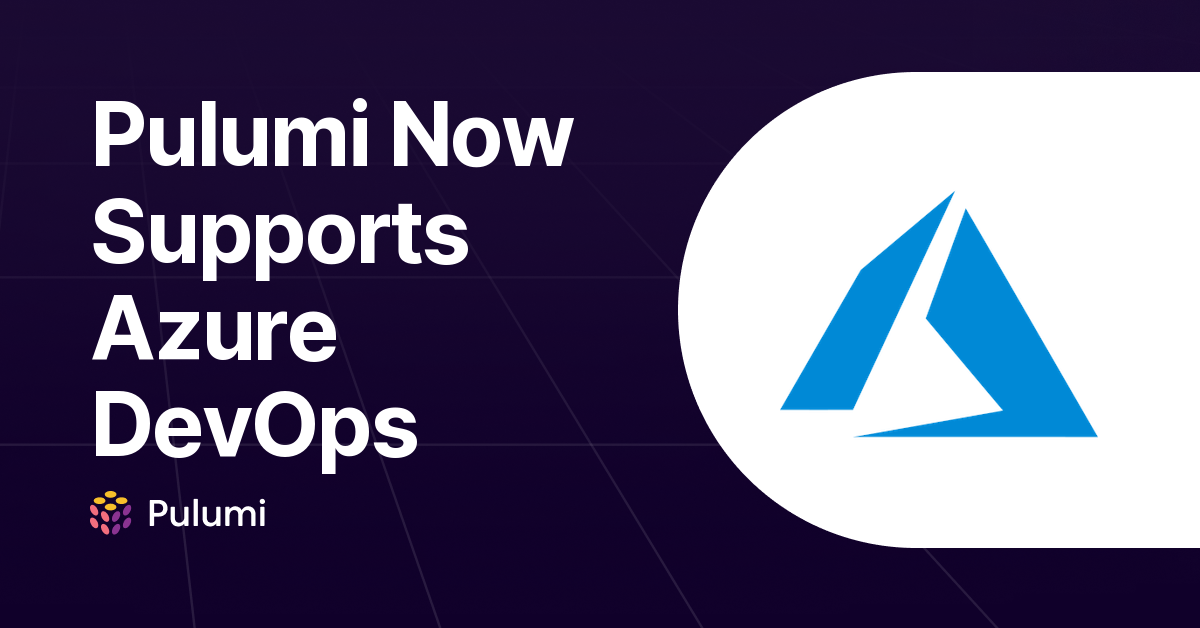
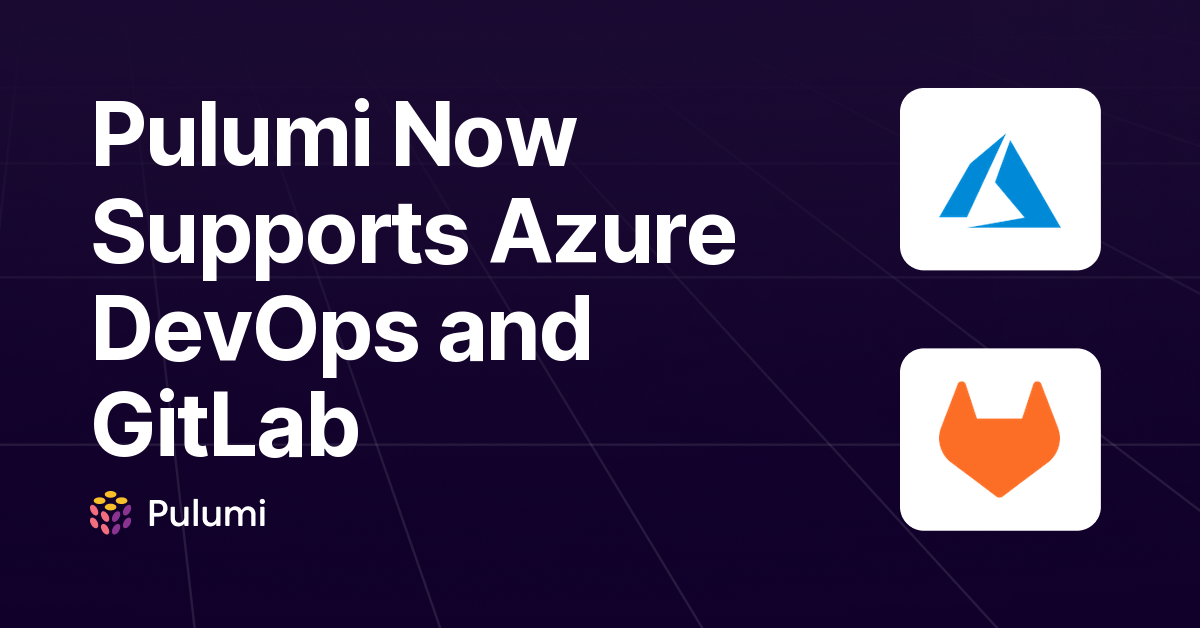
meta image

diff --git a/content/blog/pulumi-now-supports-azure-devops-in-the-new-project-wizard/index.md b/content/blog/pulumi-now-supports-azure-devops-in-the-new-project-wizard/index.md
@@ -42,6 +42,6 @@ These features apply to both Azure DevOps and GitLab integrations:
 
 1. An org admin configures the integration under **Settings** > **Integrations**.
 1. Authorize with your Azure DevOps or GitLab account via OAuth.
-1. Create a project using the new project wizard and select your VCS provider.
+1. Enjoy first-class workflows for deploying infrastructure.
 
 See the [Azure DevOps integration docs](/docs/iac/guides/continuous-delivery/azure-devops-integration/) or the [GitLab integration docs](/docs/iac/guides/continuous-delivery/gitlab-app/) for the full setup walkthrough. If you're using GitHub, check out the [Pulumi GitHub App](/docs/iac/guides/continuous-delivery/github-app/).
